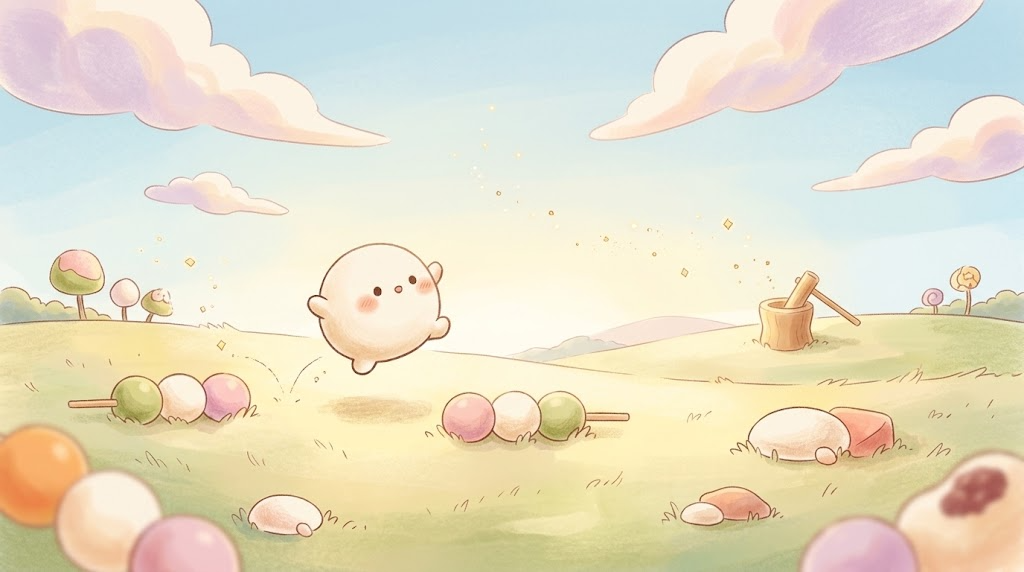
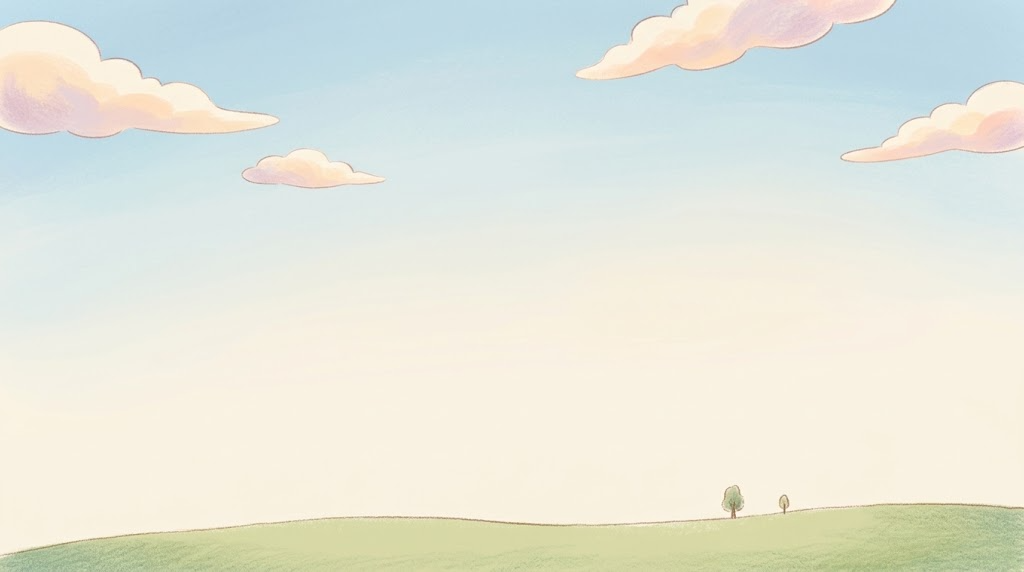
ステージ背景を引いた構図に変更しBGMを追加
- ステージ背景(art/bg_stage1-3.png)が賑やかすぎてプレイ中の視認性を
  損ねていたため、空と遠景の丘だけのシンプルな構図に差し替え
  (Gemini Webアプリで再生成。キャラクター・食べ物モチーフは含めない)
- 差し替え前の賑やかな絵は破棄せず art/clear_stage1-3.png としてご褒美画像に転用。
  showResult()でクリア時のみ#resultClearArtに表示する
- Sfxにポップで和音を交えたBGMを追加(startBgm/stopBgm)。tennis-game/neon-void
  と同じ先読みスケジューラ方式。C→G→Am→Fの7thコード+わずかにデチューンした
  層を重ねて単調にならないよう厚みを出した(実測 約43ノード/秒)
- startGame/showResult/一時停止・再開・タブ非表示時にBGMの開始/停止を接続
- CLAUDE.mdのArt節を更新し、背景を引いた構図にした経緯とBGM節を追加

diff --git a/index.html b/index.html
@@ -99,6 +99,9 @@
 
   /* ===== 結果 ===== */
   #result{justify-content:center;padding:24px;text-align:center;}
+  #resultClearArt{width:min(100%,320px);border-radius:16px;margin:0 auto 14px;display:block;
+    box-shadow:0 8px 24px rgba(0,0,0,.35);}
+  #resultClearArt[hidden]{display:none;}
   #result h2{font-size:26px;letter-spacing:.06em;margin-bottom:6px;}
   #result h2.clear{color:var(--good);}
   #resultStats{margin:14px 0 6px;font-size:14px;line-height:2.1;
@@ -160,6 +163,7 @@
 
   <!-- ================= 結果 ================= -->
   <section id="result" class="screen">
+    <img id="resultClearArt" alt="" hidden>
     <h2 id="resultTitle"></h2>
     <div id="resultStats"></div>
     <button class="btn" id="nextStageBtn">つぎのステージへ</button><br>
@@ -194,13 +198,143 @@
       osc.connect(g); g.connect(ac.destination);
       osc.start(t0); osc.stop(t0 + dur + 0.02);
     }
+    /* ===== BGM(ポップで少し重厚な和音入りのループ。tennis-game/neon-void と同じ
+       先読みスケジューラ方式)。4小節=64ステップを1ループとし、小節ごとにリード/ベース
+       の型を変えて単調さを避ける。和音は4声(7th)+わずかにデチューンした層を重ねて厚みを出す。 */
+    const BGM_BPM = 148;
+    const bgmStepSec = 60 / BGM_BPM / 4;   // 16分音符の長さ(秒)
+    const SCHEDULE_AHEAD = 0.6;            // 先読み(秒)。短いと主スレッドが詰まった瞬間に途切れる
+    const SCHED_INTERVAL_MS = 50;
+    const BGM_STEPS = 64;
+
+    function noteHz(semi){ return 110 * Math.pow(2, semi / 12); }
+    // 度数(0..2=三和音の構成音, 3=ルート+オクターブ, 4=5度+オクターブ, null=休符)
+    function degreeSemi(chord, deg){
+      if (deg === 3) return chord.tones[0] + 12;
+      if (deg === 4) return chord.tones[2] + 12;
+      return chord.tones[deg];
+    }
+    // A=0とした半音オフセット。C=3,E=7,G=10,F=8。定番のポップ進行 C→G→Am→F を7th化して厚みを持たせた
+    const CHORDS = [
+      { tones:[3,7,10,14],   bass:3  },   // CM7
+      { tones:[10,14,17,20], bass:-2 },   // G7
+      { tones:[0,3,7,10],    bass:0  },   // Am7
+      { tones:[8,12,15,19],  bass:-4 },   // FM7
+    ];
+    const LEAD = [
+      [0,3,2,3, 4,3,2,1, 0,3,2,3, 4,3,2,4],
+      [2,1,0,1, 2,3,4,3, 2,1,0,1, 2,3,2,1],
+      [0,3,2,0, 4,3,2,3, 0,3,2,0, 4,3,4,3],
+      [4,3,2,1, 0,1,2,3, 4,3,2,1, 0,1,0,null],
+    ];
+    const BASSLINE = [
+      [0,null,0,null, 0,null,0,0, 0,null,0,null, 0,null,0,0],
+      [0,null,0,null, 0,0,null,0, 0,null,0,null, 0,0,null,0],
+      [0,null,0,null, 0,null,0,0, 0,null,0,null, 0,null,0,0],
+      [0,null,0,null, 0,0,null,0, 0,null,0,null, 0,0,0,null],
+    ];
+
+    let bgmOn = false, bgmStep = 0, bgmNextAt = 0, bgmTimer = null;
+    let noiseBuf = null, busGain = null, hatFilter = null, snareFilter = null, bassFilter = null;
+    let bgmDelay = null, bgmDelayFb = null, bgmDelayWet = null;
+
+    function setupBgmBus(){
+      if (!ac || busGain) return;
+      busGain = ac.createGain(); busGain.gain.value = 0.5; busGain.connect(ac.destination);
+      bgmDelay = ac.createDelay(1.0); bgmDelayFb = ac.createGain(); bgmDelayWet = ac.createGain();
+      bgmDelay.delayTime.value = 0.34; bgmDelayFb.gain.value = 0.22; bgmDelayWet.gain.value = 0.13;
+      bgmDelay.connect(bgmDelayFb); bgmDelayFb.connect(bgmDelay);
+      bgmDelay.connect(bgmDelayWet); bgmDelayWet.connect(busGain);
+      hatFilter = ac.createBiquadFilter(); hatFilter.type = "highpass"; hatFilter.frequency.value = 7000;
+      hatFilter.connect(busGain);
+      snareFilter = ac.createBiquadFilter(); snareFilter.type = "bandpass"; snareFilter.frequency.value = 1900;
+      snareFilter.Q.value = 0.8; snareFilter.connect(busGain);
+      bassFilter = ac.createBiquadFilter(); bassFilter.type = "lowpass"; bassFilter.frequency.value = 440;
+      bassFilter.connect(busGain);
+      const len = Math.floor(ac.sampleRate * 0.3);
+      noiseBuf = ac.createBuffer(1, len, ac.sampleRate);
+      const d = noiseBuf.getChannelData(0);
+      for (let i = 0; i < len; i++) d[i] = Math.random() * 2 - 1;
+    }
+    function autoRelease(node, g, endAt){
+      node.onended = function(){ try { node.disconnect(); g.disconnect(); } catch (e) {} };
+      node.stop(endAt);
+    }
+    function noiseHit(at, dur, peak, dest){
+      const src = ac.createBufferSource(); src.buffer = noiseBuf;
+      const g = ac.createGain();
+      g.gain.setValueAtTime(peak, at);
+      g.gain.exponentialRampToValueAtTime(0.0001, at + dur);
+      src.connect(g); g.connect(dest);
+      src.start(at); autoRelease(src, g, at + dur + 0.02);
+    }
+    function bgmOsc(at, dur, freq, peak, type, dest, freqEnd){
+      const o = ac.createOscillator(); o.type = type;
+      o.frequency.setValueAtTime(freq, at);
+      if (freqEnd != null) o.frequency.exponentialRampToValueAtTime(freqEnd, at + dur);
+      const g = ac.createGain();
+      g.gain.setValueAtTime(0.0001, at);
+      g.gain.exponentialRampToValueAtTime(peak, at + 0.01);
+      g.gain.exponentialRampToValueAtTime(0.0001, at + dur);
+      o.connect(g); g.connect(dest || busGain);
+      o.start(at); autoRelease(o, g, at + dur + 0.03);
+    }
+    function bgmStepAt(step, at){
+      const bar = Math.floor(step / 16) % 4, i = step % 16;
+      const chord = CHORDS[bar];
+      if (i % 4 === 0) bgmOsc(at, 0.15, 150, 0.42, "sine", busGain, 50);        // キック
+      if (i % 2 === 0) noiseHit(at, 0.03, 0.05, hatFilter);                    // ハイハット
+      if (i === 4 || i === 12) noiseHit(at, 0.1, 0.13, snareFilter);           // スネア
+      const b = BASSLINE[bar][i];
+      if (b != null) bgmOsc(at, bgmStepSec * 2.4, noteHz(chord.bass), 0.3, "sawtooth", bassFilter);
+      // 和音パッド: 拍ごとに4声(7th)+わずかにデチューンした層を重ねて厚みを出す
+      if (i % 4 === 0) {
+        const dur = bgmStepSec * 3.4;
+        chord.tones.forEach(function(t){
+          const hz = noteHz(t) * 2;
+          bgmOsc(at, dur, hz, 0.045, "triangle", busGain);
+          bgmOsc(at, dur, hz * 1.004, 0.02, "sine", busGain);
+        });
+      }
+      const d = LEAD[bar][i];
+      if (d != null) {
+        const hz = noteHz(degreeSemi(chord, d)) * 2;
+        bgmOsc(at, bgmStepSec * 1.5, hz, 0.09, "square", busGain);
+        if (i % 8 === 0 && bgmDelay) bgmOsc(at, bgmStepSec * 1.5, hz, 0.035, "square", bgmDelay);
+      }
+    }
+    function bgmTick(){
+      if (!bgmOn || !ac) return;
+      const now = ac.currentTime;
+      // 大きく遅れたら追いつくのを諦め、拍を取り直す(まとめ発音による悪循環を防ぐ)
+      if (bgmNextAt < now - 0.05) {
+        const skip = Math.ceil((now - bgmNextAt) / bgmStepSec);
+        bgmStep += skip; bgmNextAt += skip * bgmStepSec;
+      }
+      let guard = 0;
+      while (bgmNextAt < now + SCHEDULE_AHEAD && guard++ < 32) {
+        try { bgmStepAt(bgmStep % BGM_STEPS, bgmNextAt); } catch (e) {}
+        bgmNextAt += bgmStepSec; bgmStep++;
+      }
+      bgmTimer = setTimeout(bgmTick, SCHED_INTERVAL_MS);
+    }
+    function startBgm(){
+      ensure();
+      if (!ac || bgmOn) return;
+      setupBgmBus();
+      bgmOn = true; bgmStep = 0; bgmNextAt = ac.currentTime + 0.08;
+      bgmTick();
+    }
+    function stopBgm(){ bgmOn = false; clearTimeout(bgmTimer); }
+
     return {
       ensure,
       jump(){ tone(360, 0.16, "sine", 0.16, 620); },
       land(){ tone(180, 0.09, "sine", 0.14, 90); },
       coin(){ tone(880, 0.09, "square", 0.10, 1320); },
       hit(){ tone(140, 0.22, "sawtooth", 0.14, 60); },
-      clear(){ [523,659,784,1047].forEach((f,i)=> setTimeout(()=>tone(f,0.28,"triangle",0.14), i*90)); }
+      clear(){ [523,659,784,1047].forEach((f,i)=> setTimeout(()=>tone(f,0.28,"triangle",0.14), i*90)); },
+      startBgm, stopBgm
     };
   })();
 
@@ -307,6 +441,7 @@
 
   const LEVELS = [
     { id:"stage1", name:"はじめの原っぱ", desc:"まずは基本の動きを覚えよう", bg:"art/bg_stage1.png",
+      clearArt:"art/clear_stage1.png",
       platforms:[
         { x:0,    y:GROUND_Y, w:520,  h:40 },
         { x:600,  y:GROUND_Y, w:340,  h:40 },
@@ -342,6 +477,7 @@
       goalX:3720, levelW:3900
     },
     { id:"stage2", name:"きなこの谷", desc:"穴とジャンプ台が増えて少し忙しい", bg:"art/bg_stage2.png",
+      clearArt:"art/clear_stage2.png",
       platforms:[
         { x:0,    y:GROUND_Y, w:420, h:40 },
         { x:540,  y:GROUND_Y, w:220, h:40 },
@@ -381,6 +517,7 @@
       goalX:3600, levelW:3900
     },
     { id:"stage3", name:"もちの絶壁", desc:"動く足場が2つ、とげも連続する上級編", bg:"art/bg_stage3.png",
+      clearArt:"art/clear_stage3.png",
       platforms:[
         { x:0,    y:GROUND_Y, w:380, h:40 },
         { x:560,  y:GROUND_Y, w:140, h:40 },
@@ -764,6 +901,7 @@
 
   function startGame(levelIndex){
     Sfx.ensure();
+    Sfx.startBgm();
     PlayCounts.increment("mochi-jump");   // START/もういちど/次のステージ 共通、ここ1箇所でカウント
     loadLevel(levelIndex);
     show("play");
@@ -773,6 +911,7 @@
   }
 
   function showResult(cleared){
+    Sfx.stopBgm();
     if(cleared) Progress.markCleared(LEVELS[currentLevel].id);
     show("result");
     const elapsed = ((performance.now() - startedAt) / 1000).toFixed(1);
@@ -783,6 +922,18 @@
       "きなこ <b>" + coinCount + "</b> / " + coins.length;
     const hasNext = cleared && currentLevel + 1 < LEVELS.length;
     $("nextStageBtn").style.display = hasNext ? "inline-block" : "none";
+    // クリア時だけ、そのステージのご褒美イラスト(art/clear_stageN.png)を表示する。
+    // 読み込めなくてもhiddenのままで無害(失敗時のフォールバック処理は不要)。
+    const art = $("resultClearArt");
+    const clearArt = cleared && LEVELS[currentLevel].clearArt;
+    if(clearArt){
+      art.src = clearArt;
+      art.hidden = false;
+      art.onerror = function(){ art.hidden = true; };
+    } else {
+      art.hidden = true;
+      art.removeAttribute("src");
+    }
   }
 
   $("titleStartBtn").addEventListener("click", function(){ paintStageList(); show("select"); });
@@ -796,20 +947,25 @@
   $("pauseBtn").addEventListener("click", function(){
     if(!running || ended) return;
     paused = true; $("pauseOverlay").classList.add("show");
+    Sfx.stopBgm();
   });
   $("resumeBtn").addEventListener("click", function(){
     paused = false; $("pauseOverlay").classList.remove("show"); lastT = performance.now();
+    Sfx.startBgm();
   });
   $("quitBtn").addEventListener("click", function(){
     paused = false; running = false; ended = true;
     $("pauseOverlay").classList.remove("show");
+    Sfx.stopBgm();
     show("title");
   });
   document.addEventListener("visibilitychange", function(){
     if(document.hidden && running && !ended && !paused){
       paused = true; $("pauseOverlay").classList.add("show");
+      Sfx.stopBgm();
     }
   });
+  window.addEventListener("pagehide", function(){ Sfx.stopBgm(); });
 
   fitCanvas();
 

diff --git a/CLAUDE.md b/CLAUDE.md
@@ -163,13 +163,38 @@ over `LEVELS.length` and need no changes for additional stages.
 `art/keyart.png` (title screen, set as `#title`'s CSS `background`, dimmed with a `#title::before`
 scrim gradient for text legibility) and `art/bg_stage{1,2,3}.png` (one per `LEVELS` entry, via
 `bg:` field, applied to `canvas#game` in `loadLevel()`) are backdrop illustrations only — no
-sprites, no gameplay hitboxes derive from them. All four are picture-book (ehon) style pastel
+sprites, no gameplay hitboxes derive from them. All are picture-book (ehon) style pastel
 wagashi-world illustrations generated with Gemini's web app (image API has no free tier; see the
-sibling repos' CLAUDE.md "Gemini でシーン画像を無料で作る" for the free route), using `keyart.png`
-itself as the reference image for the three stage backgrounds so the mochi character design in
-each image stays consistent. Missing/failed-to-load art degrades silently: CSS background-image
-that 404s just doesn't paint, leaving the plain gradient (`#title` falls back to `body`'s own
-radial-gradient since it sets no background of its own without the image; `canvas#game`'s inline
-`style.background` always includes the original navy gradient as a second layer) — no JS
-image-loading/fallback logic needed, unlike the sprite `poseFile()`/`missingArt` pattern in
-`tennis-game`.
+sibling repos' CLAUDE.md "Gemini でシーン画像を無料で作る" for the free route). Missing/failed-to-load
+art degrades silently: CSS background-image that 404s just doesn't paint, leaving the plain
+gradient (`#title` falls back to `body`'s own radial-gradient since it sets no background of its
+own without the image; `canvas#game`'s inline `style.background` always includes the original navy
+gradient as a second layer) — no JS image-loading/fallback logic needed, unlike the sprite
+`poseFile()`/`missingArt` pattern in `tennis-game`.
+
+**`bg_stage{1,2,3}.png` are deliberately calm/sparse** (2026-09-19 revision): the first version
+used `keyart.png` as a reference image so the busy hero-illustration composition (dense wagashi
+clusters, the mochi character drawn into the scene) carried straight into the stage backgrounds,
+and it read as cluttered *behind actual gameplay* — competing with the platforms/spikes/coins the
+canvas draws on top. Revised prompts keep only a thin band of scenery hugging the very bottom edge
+(low hill silhouette, one or two sparse trees) and leave the middle/lower two-thirds of the frame
+almost empty sky, explicitly excluding the character and any food/prop clutter, so gameplay stays
+readable. **The original busy illustrations weren't thrown away** — they were repurposed as
+`art/clear_stage{1,2,3}.png`, shown via `#resultClearArt` in `showResult()` only when `cleared` is
+true (via each `LEVELS` entry's `clearArt` field) — a "richer scene as the reward for finishing"
+reads well precisely because it's *not* what you were staring at while playing. Same graceful
+degradation as the other art: `img.onerror` just re-hides the element.
+
+## BGM
+
+`Sfx` also owns a single always-on pop BGM (`startBgm()`/`stopBgm()`, called from `startGame()`,
+`showResult()`, pause/resume/quit, `visibilitychange`, and `pagehide`) — same look-ahead scheduler
+architecture as `tennis-game`/`neon-void` (`SCHEDULE_AHEAD=0.6s`, catch-up-by-resync instead of
+bursting stale notes, a shared noise buffer/filters, `onended`-triggered `disconnect()`). One
+4-bar loop, BPM 148, the classic pop progression C→G→Am→F voiced as 7th chords (`CHORDS[].tones`
+has 4 entries, not 3) so the pad layer alone has some harmonic thickness; a second, barely-detuned
+(`*1.004`) sine layer doubles every pad note for a light chorus effect — that pairing is what makes
+it not read as "monotonous" the way a single square-wave lead over bare triads would. Measured
+~43 nodes/s, comfortably under neon-void's documented worst case (219–306/s), so no per-stage
+theme switching was needed to keep it light — see `tennis-game`'s CLAUDE.md if a future request
+wants stage-by-stage BGM variety, that repo's `bgmThemeFor()` pattern is the template to copy.
